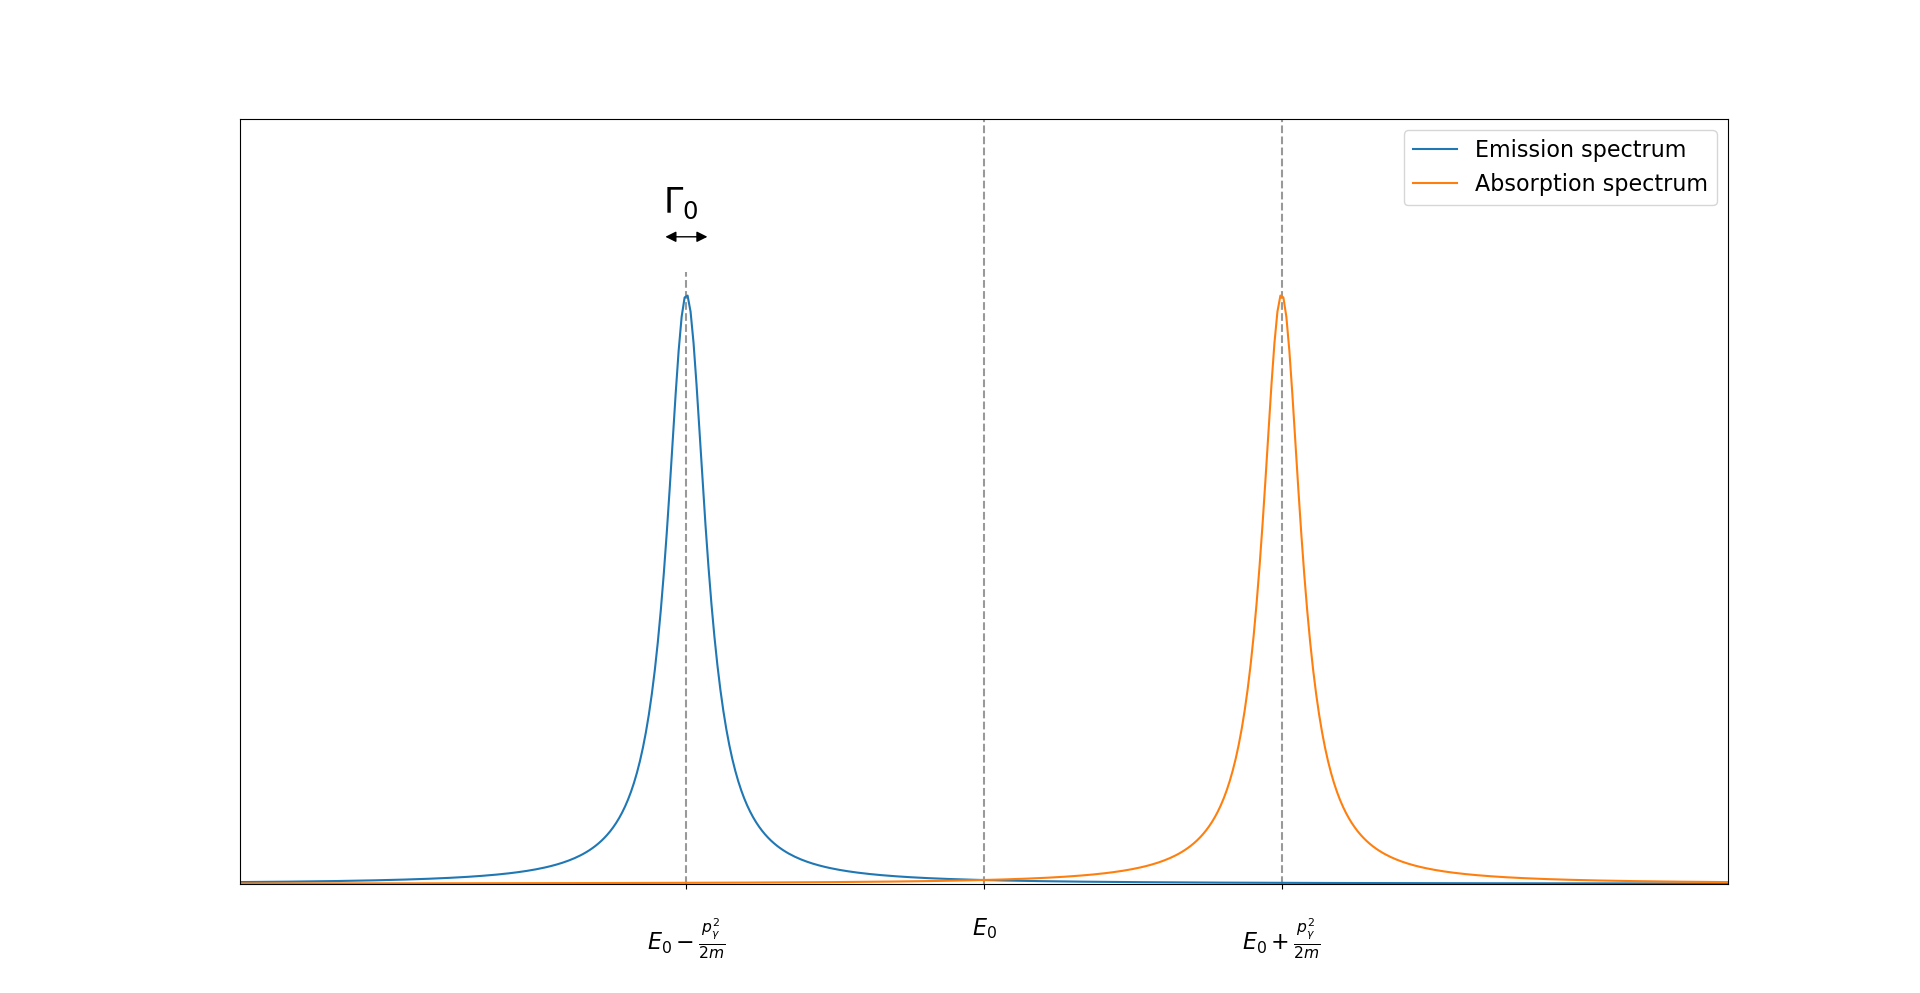
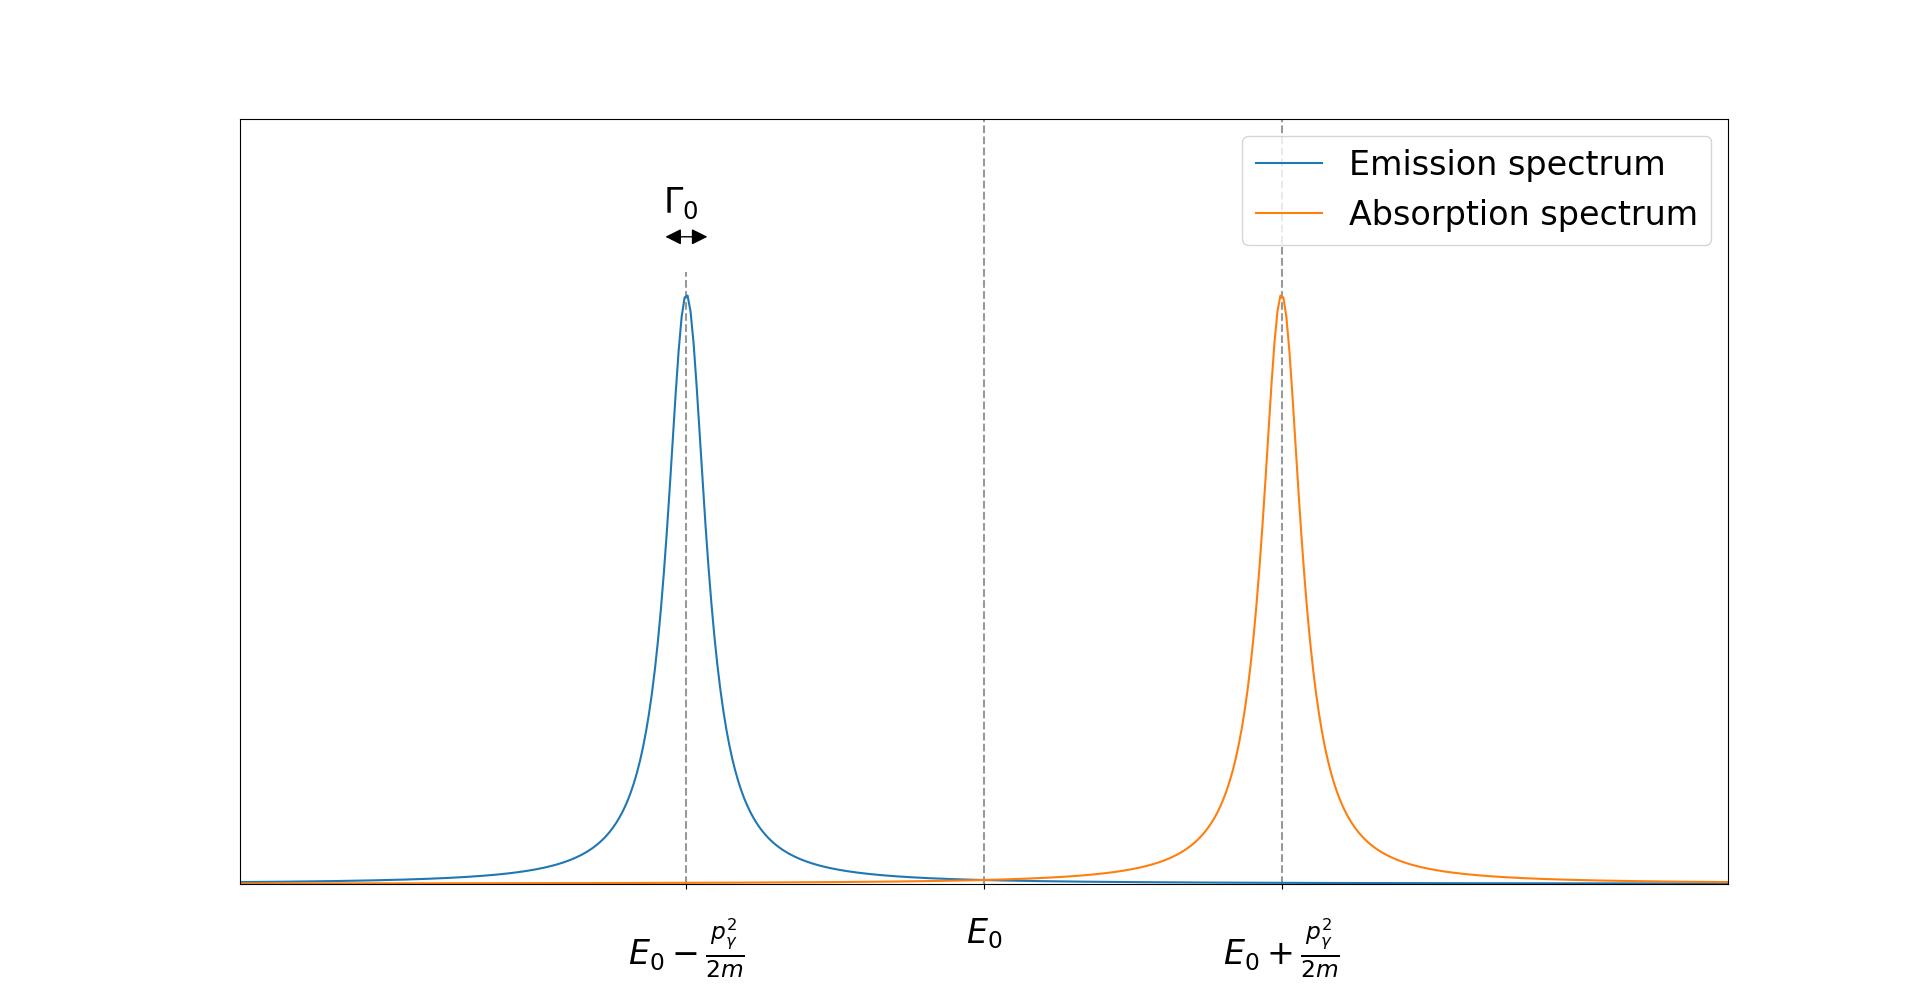
Update plots, work on fitters

diff --git a/02-MOESSBAUER-EFFECT/script/mössbauer_aux.py b/02-MOESSBAUER-EFFECT/script/mössbauer_aux.py
@@ -32,32 +32,41 @@ def create_bins(x,x_err=None,res=128):
         return bins
 
 # The shape fitted to the absorption peaks
-def inv_bw(x,O,A,w,g):
-    return O - A/( (x**2-w**2)**2 + g**2*w**2)
+def inv_bw(x,O,A,G,w0):
+    return O - A * 0.5*G/( (x**2-w0**2)**2 + (0.5*G)**2 )
 
 # Fit several inv_breit_wigner to a data set. <cuts> specifies
 # the indices at which the datasets will be split for analysis.
-def perform_fits(x_data,y_data,y_err,cuts):
+def perform_fits(x_data,y_data,y_err,cuts,ch1):
     fit_results = []
 
     for i in range(len(cuts[:-1])):
         low, high = cuts[i], cuts[i+1]
         x, y, err = x_data[low:high], y_data[low:high], y_err[low:high]
-        O, A, w, g = np.mean([y[0],y[-1]]), 5e5*(np.mean([y[0],y[-1]])-min(y)), x[np.argmin(y)], 1
-        initial_guess = np.array([O,A,w,g])
-        bounds = [ [O-1e3,0,w-2,0],[O+1e3,5*A,w+2,np.inf] ]
-        popt, pcov = curve_fit(inv_bw,x,y,initial_guess,err,bounds=bounds,maxfev=int(1e5))
+
+        # estimating the initial guess and fit boundaries
+        O_i = np.mean([y[0],y[-1]])
+        w_i = x[np.argmin(y)]
+        A_i = 3e5
+        G_i = 1000
+        initial_guess = np.array([O_i,A_i,w_i,G_i])
+
+        lower, higher = [O_i-1e3,0,w_i-10,0], [O_i+1e3,np.inf,w_i+10,np.inf]
+        popt, pcov = curve_fit(inv_bw,x,y,initial_guess,err,bounds=[lower,higher],maxfev=int(1e5),method="dogbox")
         pcov = np.delete(np.delete(pcov,1,1),1,0) # get rid of errors in A
         fit_results.append([popt, pcov])
 
     return fit_results
 
 # Visualize the fits obtained in perform_fits
-def draw_fits(x_data,fit_results,cuts):
+def draw_fits(x_data,fit_results,cuts,ch1):
+    c = "C0" if ch1 else "C1"
+    ls = "--" if ch1 else ":"
+    lw = 0.5 if ch1 else 1
 
     for i in range(len(cuts[:-1])):
         low, high = cuts[i], cuts[i+1]
-        X = np.linspace(x_data[low],x_data[high],1000)
+        X = np.linspace(x_data[low],x_data[high],10000)
         (O,A,w,g), pcov = fit_results[i][0], fit_results[i][1]
         model = inv_bw(X,O,A,w,g)
 
@@ -71,8 +80,8 @@ def draw_fits(x_data,fit_results,cuts):
             grad = np.array([1,dw[i],dg[i]])
             err[i] = np.sqrt( grad.T @ pcov @ grad )
 
-        plt.plot(X,model,lw=1)
-        plt.fill_between(X,model+err,model-err,alpha=0.2)
+        plt.plot(X,model,lw=lw,ls=ls,c=c)
+        plt.fill_between(X,model+err,model-err,alpha=0.15,color=c)
 
 # Useful to see where the datasets are split
 def draw_cuts(x_data,cuts):
@@ -83,4 +92,18 @@ def draw_cuts(x_data,cuts):
 def print_results(fit_results):
 
     for i in range(len(fit_results)):
-        print(f"{i+1}: omega_0 = {fit_results[i][0][2]:.2f} +- {np.sqrt(np.diag(fit_results[i][1])[1]):.3f}")
+        O, A = fit_results[i][0][0], fit_results[i][0][1]
+        w, G = fit_results[i][0][2], fit_results[i][0][3]
+        w_err = np.sqrt( np.diag(fit_results[i][1])[1] )
+        G_err = np.sqrt( np.diag(fit_results[i][1])[2] )
+        # wg_corr_sqr = fit_results[i][1][1,2]
+
+        # FWHM = np.sqrt(w**2 + g*w) - np.sqrt(w**2 - g*w)
+        # dw = 0.5 * ( (2*w+g)/np.sqrt(w**2 + g*w) - (2*2-g)/np.sqrt(w**2 - g*w) )
+        # dg = 0.5 * ( g/np.sqrt(w**2 + g*w) + g/np.sqrt(w**2 - g*w) )
+        # FWHM_err = np.sqrt( dw**2 * w_err**2 + dg**2 * g_err**2 + dw*dg*wg_corr_sqr )
+
+        print(f"{i+1}: A = {A:.1f}, O = {O:.1f}")
+        print(f"{i+1}: w_0 = {w:.1f} +- {w_err:.2f}, g = {G:.6f} +- {G_err:.6f}\n")
+        # print(FWHM)
+        # print(f" `-> FWHM = {FWHM:.6f} +- {FWHM_err:.6f}\n")

diff --git a/02-MOESSBAUER-EFFECT/script/Iron.py b/02-MOESSBAUER-EFFECT/script/Iron.py
@@ -12,34 +12,46 @@ from mössbauer_aux import inv_bw
 import matplotlib.pyplot as plt
 import numpy as np
 
+plt.rcParams.update({'font.size': 24})
+plt.rc('axes', labelsize=28)
+
 channels, data = np.loadtxt("../data/Iron.txt",unpack=True)
 (ch1, ch2), (d1, d2) = np.split(channels,2), np.split(data,2)
 
-ch1_binned, ch2_binned = create_bins(ch1), create_bins(ch2)
+ch1_binned, ch2_binned = create_bins(ch1), create_bins(ch2)-512
 d1_binned, d1_err_binned = create_bins(d1,np.sqrt(d1))
 d2_binned, d2_err_binned = create_bins(d2,np.sqrt(d2))
+d2_binned, d2_err_binned = d2_binned[::-1], d2_err_binned[::-1]
 
-plt.scatter(ch1_binned,d1_binned,marker="s",s=5), plt.scatter(ch2_binned,d2_binned,s=5)
-plt.errorbar(ch1_binned,d1_binned,yerr=d1_err_binned,ls="None",capsize=1.5,elinewidth=0.4)
-plt.errorbar(ch2_binned,d2_binned,yerr=d2_err_binned,ls="None",capsize=1.5,elinewidth=0.4)
+# plt.scatter(ch1_binned,d1_binned,marker="s",s=5,label="Ch1 data",zorder=50)
+plt.scatter(ch2_binned,d2_binned,s=10,label="Ch2 data",zorder=50)
+# plt.errorbar(ch1_binned,d1_binned,yerr=d1_err_binned,ls="None",capsize=1.5,elinewidth=0.4,zorder=49)
+plt.errorbar(ch2_binned,d2_binned,yerr=d2_err_binned,ls="None",capsize=1.5,elinewidth=0.4,zorder=49)
 
 # eyeballing this works good enough, the below cuts are given for res = 128
 d1_cuts = [0,42,54,64,74,86,-1]
-d2_cuts = [0,42,52,62,72,84,-1]
+d2_cuts = [0,42,53,64,73,84,-1]
 # draw_cuts(ch1_binned,d1_cuts)
 # draw_cuts(ch2_binned,d2_cuts)
 
-fits_d1 = perform_fits(ch1_binned,d1_binned,d1_err_binned,d1_cuts)
-fits_d2 = perform_fits(ch2_binned,d2_binned,d2_err_binned,d2_cuts)
-draw_fits(ch1_binned,fits_d1,d1_cuts)
-draw_fits(ch2_binned,fits_d2,d2_cuts)
+fits_d1 = perform_fits(ch1_binned,d1_binned,d1_err_binned,d1_cuts,ch1=True)
+# fits_d2 = perform_fits(ch2_binned,d2_binned,d2_err_binned,d2_cuts,ch1=False)
+
+draw_fits(ch1_binned,fits_d1,d1_cuts,ch1=True)
+# draw_fits(ch2_binned,fits_d2,d2_cuts,ch1=False)
 
 print("\nChannel 1:")
 print_results(fits_d1)
 
-print("\nChannel 2:")
-print_results(fits_d2)
+# print("\nChannel 2:")
+# print_results(fits_d2)
 
-plt.xlabel("MCS channel number")
-plt.ylabel("Binned count")
-plt.show()
+# for i in range(len(d1_binned)):
+#     print(f"({ch1_binned[i]},{d1_binned[i]}),")
+
+plt.xlabel("MCS channel number",labelpad=20)
+plt.ylabel("Binned count",labelpad=20)
+plt.ylim(8500,10800)
+plt.xlim(0,512)
+plt.legend()
+# plt.show()

diff --git a/02-MOESSBAUER-EFFECT/script/Phosphate.py b/02-MOESSBAUER-EFFECT/script/Phosphate.py
@@ -12,27 +12,32 @@ from mössbauer_aux import inv_bw
 import matplotlib.pyplot as plt
 import numpy as np
 
+plt.rcParams.update({'font.size': 24})
+plt.rc('axes', labelsize=28)
+
 channels, data = np.loadtxt("../data/Phosphate.txt",unpack=True)
 (ch1, ch2), (d1, d2) = np.split(channels,2), np.split(data,2)
 
-ch1_binned, ch2_binned = create_bins(ch1), create_bins(ch2)
+ch1_binned, ch2_binned = create_bins(ch1), create_bins(ch2)-512
 d1_binned, d1_err_binned = create_bins(d1,np.sqrt(d1))
 d2_binned, d2_err_binned = create_bins(d2,np.sqrt(d2))
+d2_binned, d2_err_binned = d2_binned[::-1], d2_err_binned[::-1]
 
-plt.scatter(ch1_binned,d1_binned,marker="s",s=5), plt.scatter(ch2_binned,d2_binned,s=5)
-plt.errorbar(ch1_binned,d1_binned,yerr=d1_err_binned,ls="None",capsize=1.5,elinewidth=0.4)
-plt.errorbar(ch2_binned,d2_binned,yerr=d2_err_binned,ls="None",capsize=1.5,elinewidth=0.4)
+plt.scatter(ch1_binned,d1_binned,marker="s",s=5,label="Ch1 data",zorder=50), plt.scatter(ch2_binned,d2_binned,s=10,label="Ch2 data",zorder=50)
+plt.errorbar(ch1_binned,d1_binned,yerr=d1_err_binned,ls="None",capsize=1.5,elinewidth=0.4,zorder=49)
+plt.errorbar(ch2_binned,d2_binned,yerr=d2_err_binned,ls="None",capsize=1.5,elinewidth=0.4,zorder=49)
 
 # eyeballing this works good enough, the below cuts are given for res = 128
-d1_cuts = [0,-1]
-d2_cuts = [0,-1]
+d1_cuts = [0,62,-1]
+d2_cuts = [0,62,-1]
 # draw_cuts(ch1_binned,d1_cuts)
 # draw_cuts(ch2_binned,d2_cuts)
 
-fits_d1 = perform_fits(ch1_binned,d1_binned,d1_err_binned,d1_cuts)
-fits_d2 = perform_fits(ch2_binned,d2_binned,d2_err_binned,d2_cuts)
-draw_fits(ch1_binned,fits_d1,d1_cuts)
-draw_fits(ch2_binned,fits_d2,d2_cuts)
+fits_d1 = perform_fits(ch1_binned,d1_binned,d1_err_binned,d1_cuts,ch1=True)
+fits_d2 = perform_fits(ch2_binned,d2_binned,d2_err_binned,d2_cuts,ch1=False)
+
+draw_fits(ch1_binned,fits_d1,d1_cuts,ch1=True)
+draw_fits(ch2_binned,fits_d2,d2_cuts,ch1=False)
 
 print("\nChannel 1:")
 print_results(fits_d1)
@@ -40,6 +45,9 @@ print_results(fits_d1)
 print("\nChannel 2:")
 print_results(fits_d2)
 
-plt.xlabel("MCS channel number")
-plt.ylabel("Binned count")
+plt.xlabel("MCS channel number",labelpad=20)
+plt.ylabel("Binned count",labelpad=20)
+# plt.ylim(8500,10800)
+plt.xlim(0,512)
+plt.legend()
 plt.show()

diff --git a/02-MOESSBAUER-EFFECT/script/resonant_absorption.py b/02-MOESSBAUER-EFFECT/script/resonant_absorption.py
@@ -2,8 +2,8 @@
 
 import numpy as np
 import matplotlib.pyplot as plt
-plt.rcParams.update({'font.size': 16})
-plt.rc('axes', labelsize=26)
+plt.rcParams.update({'font.size': 24})
+plt.rc('axes', labelsize=28)
 
 def breit_wigner(x,omega,gamma):
 
@@ -46,5 +46,5 @@ plt.fill_between(X,0,overlap,color="k",alpha=0.7,label="Resonant absorption")
 plt.xlim(E-2.5*shift,E+2.5*shift)
 plt.yticks([],[])
 plt.ylim(0.01,1.3)
-plt.legend(loc="upper right")
+plt.legend(loc="upper right",fontsize=20)
 plt.show()
